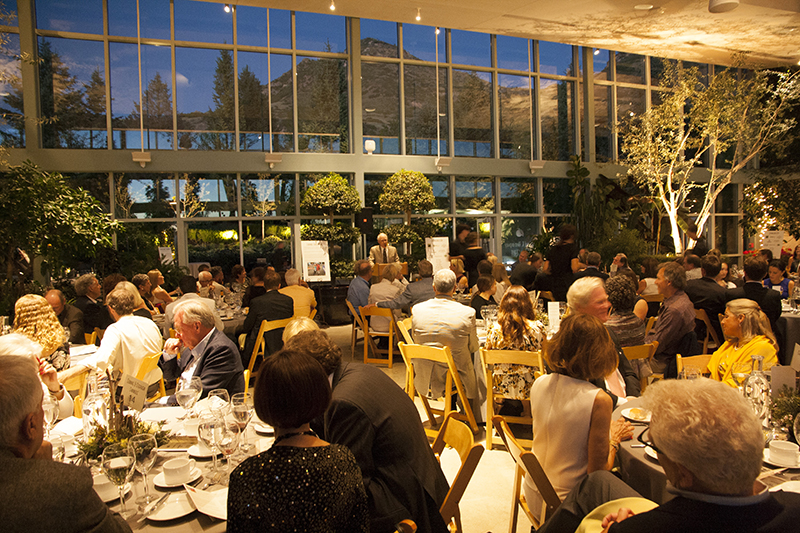
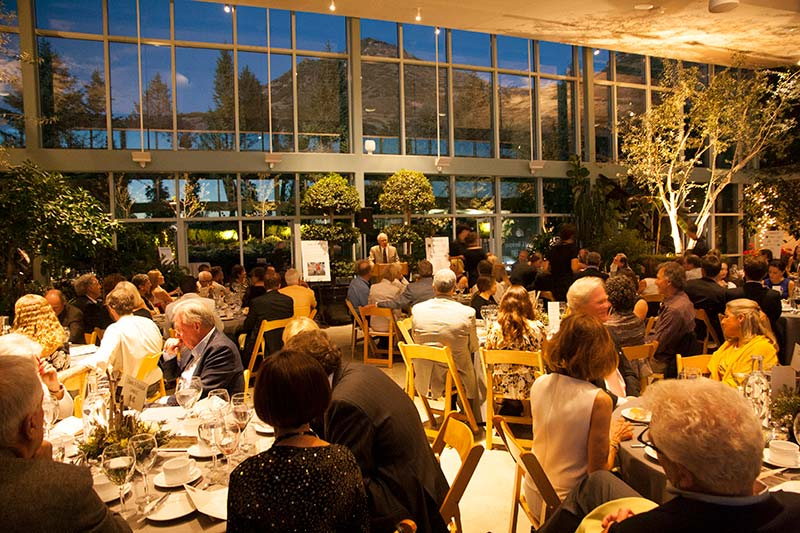
updated smaller web images updated content

diff --git a/botany-bins.html b/botany-bins.html
@@ -32,7 +32,7 @@ layout: "default"
 
 			<center>
 				<img src="/images/misc/botany-bin-01.jpg" alt="Botany Bins at Red Butte Garden" title="Botany Bins at Red Butte Garden" class="responsive" style="max-height:120px; width: auto;" />
-				<img src="/images/misc/botany-bins-kids.jpg" alt="Botany Bins at Red Butte Garden" title="Botany Bins at Red Butte Garden" class="responsive" style="max-height:120px; width: auto;" />
+				<img src="/images/misc/botany-bins-kids-table.jpg" alt="Botany Bins at Red Butte Garden" title="Botany Bins at Red Butte Garden" class="responsive" style="max-height:120px; width: auto;" />
 				<img src="/images/misc/botany-bin-02.jpg" alt="Botany Bins at Red Butte Garden" title="Botany Bins at Red Butte Garden" class="responsive" style="max-height:120px; width: auto;" />
 			</center>
 			<br />
